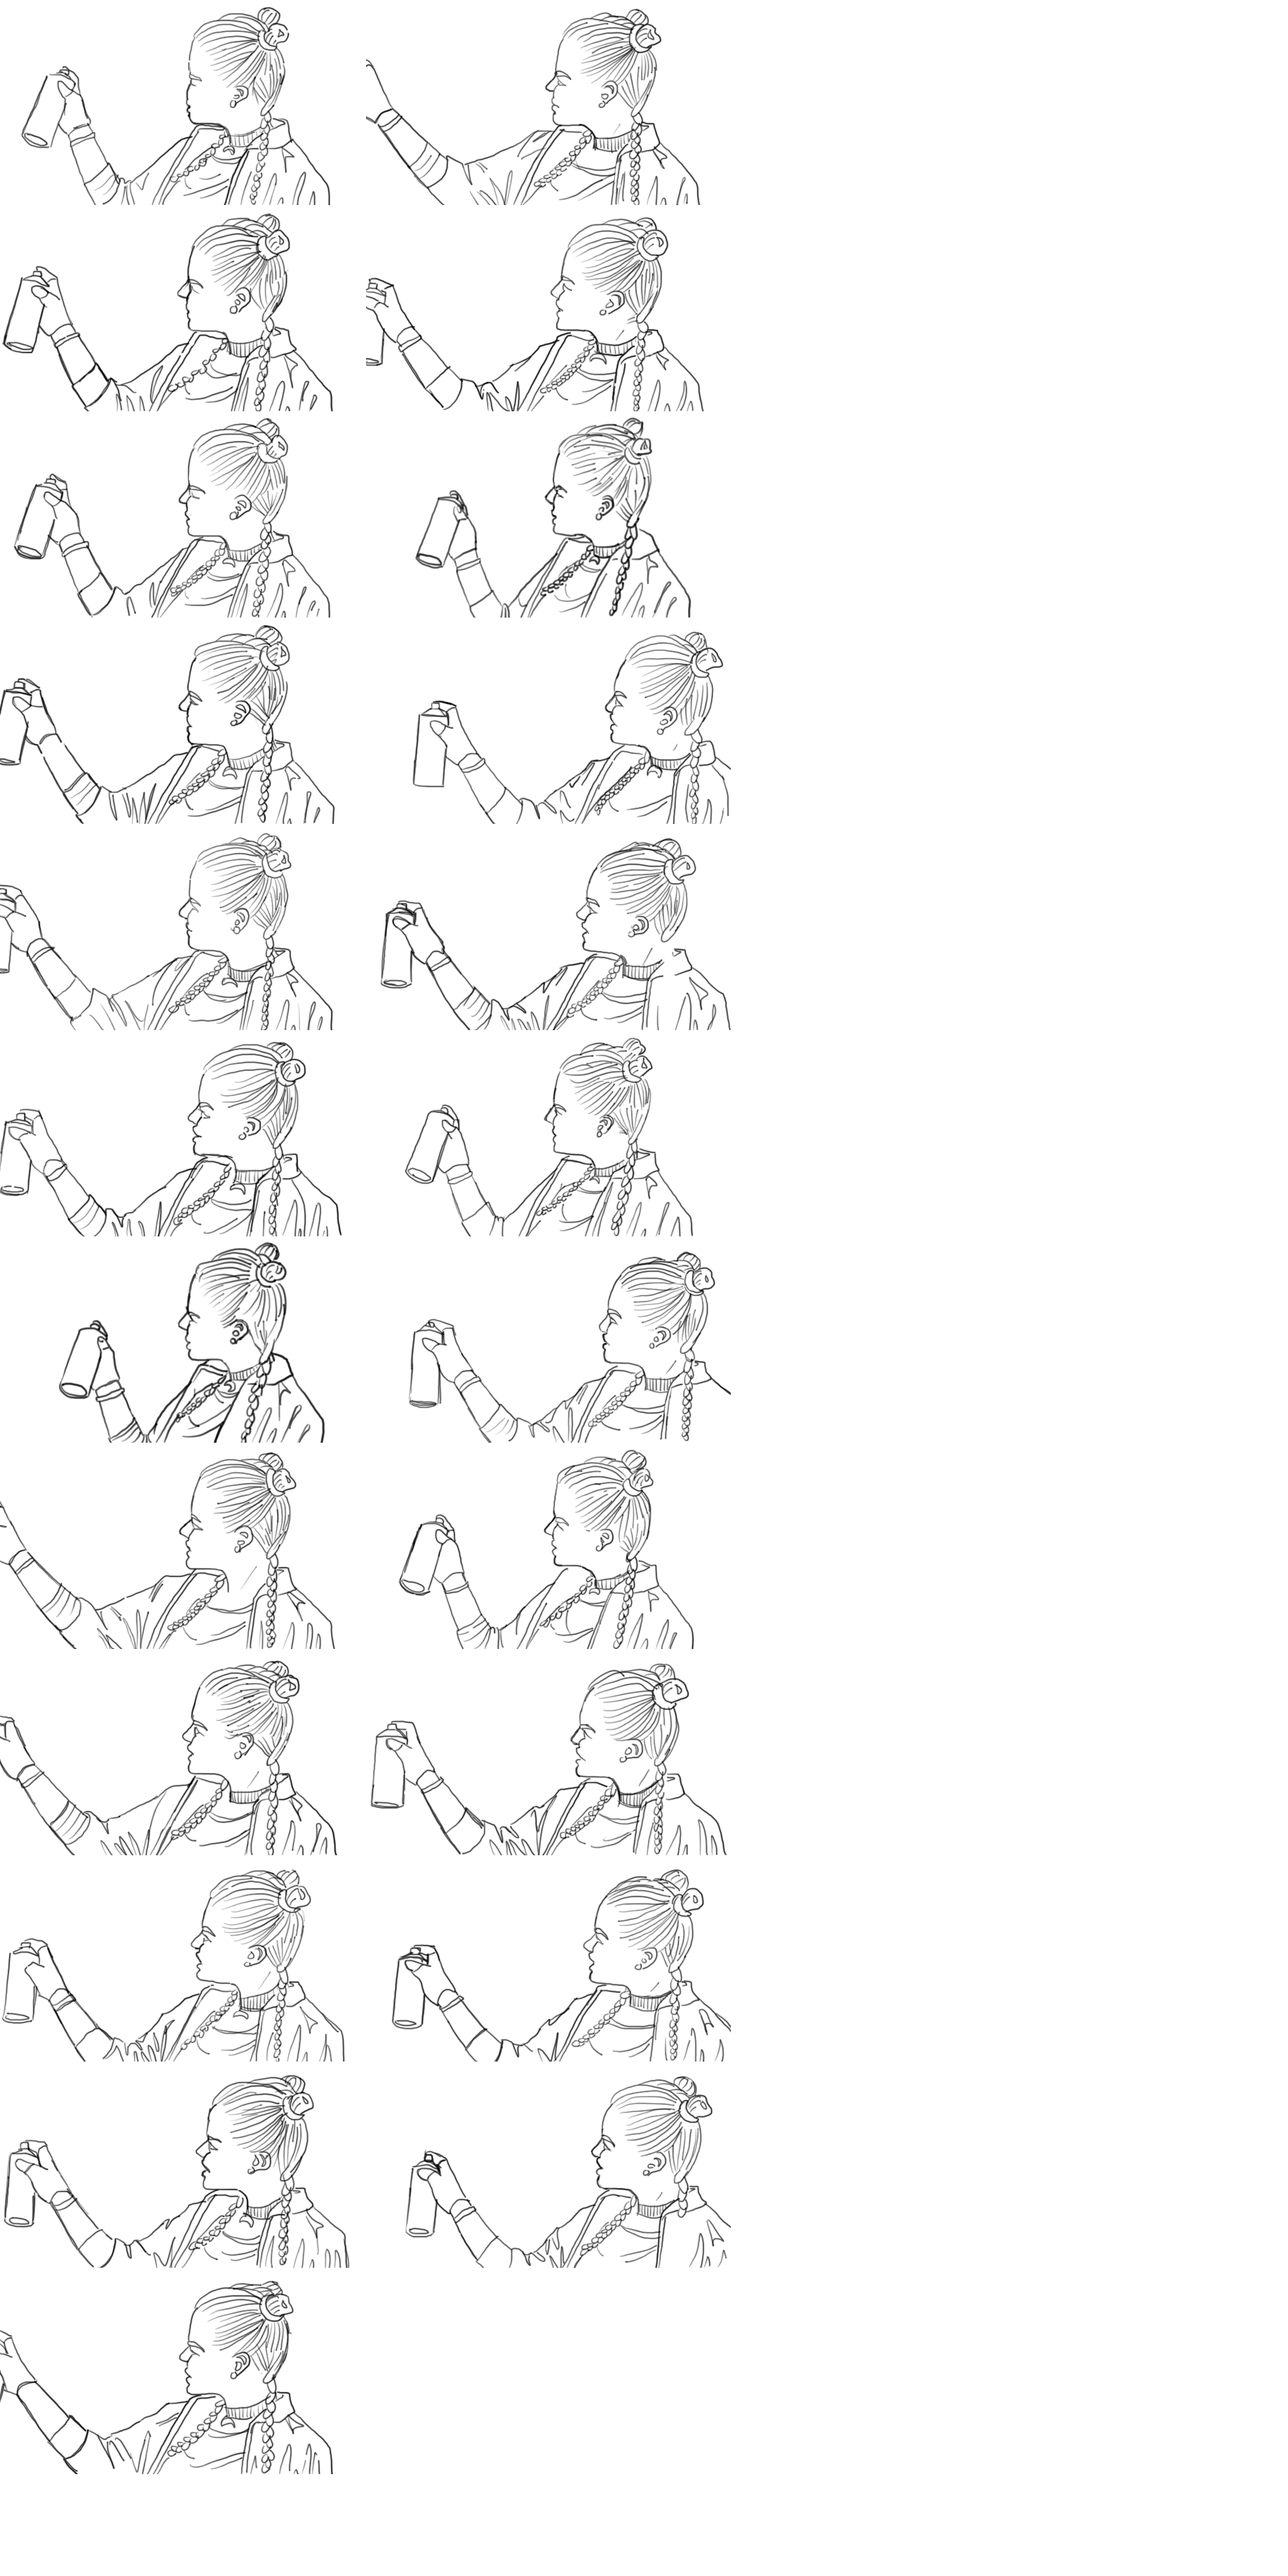
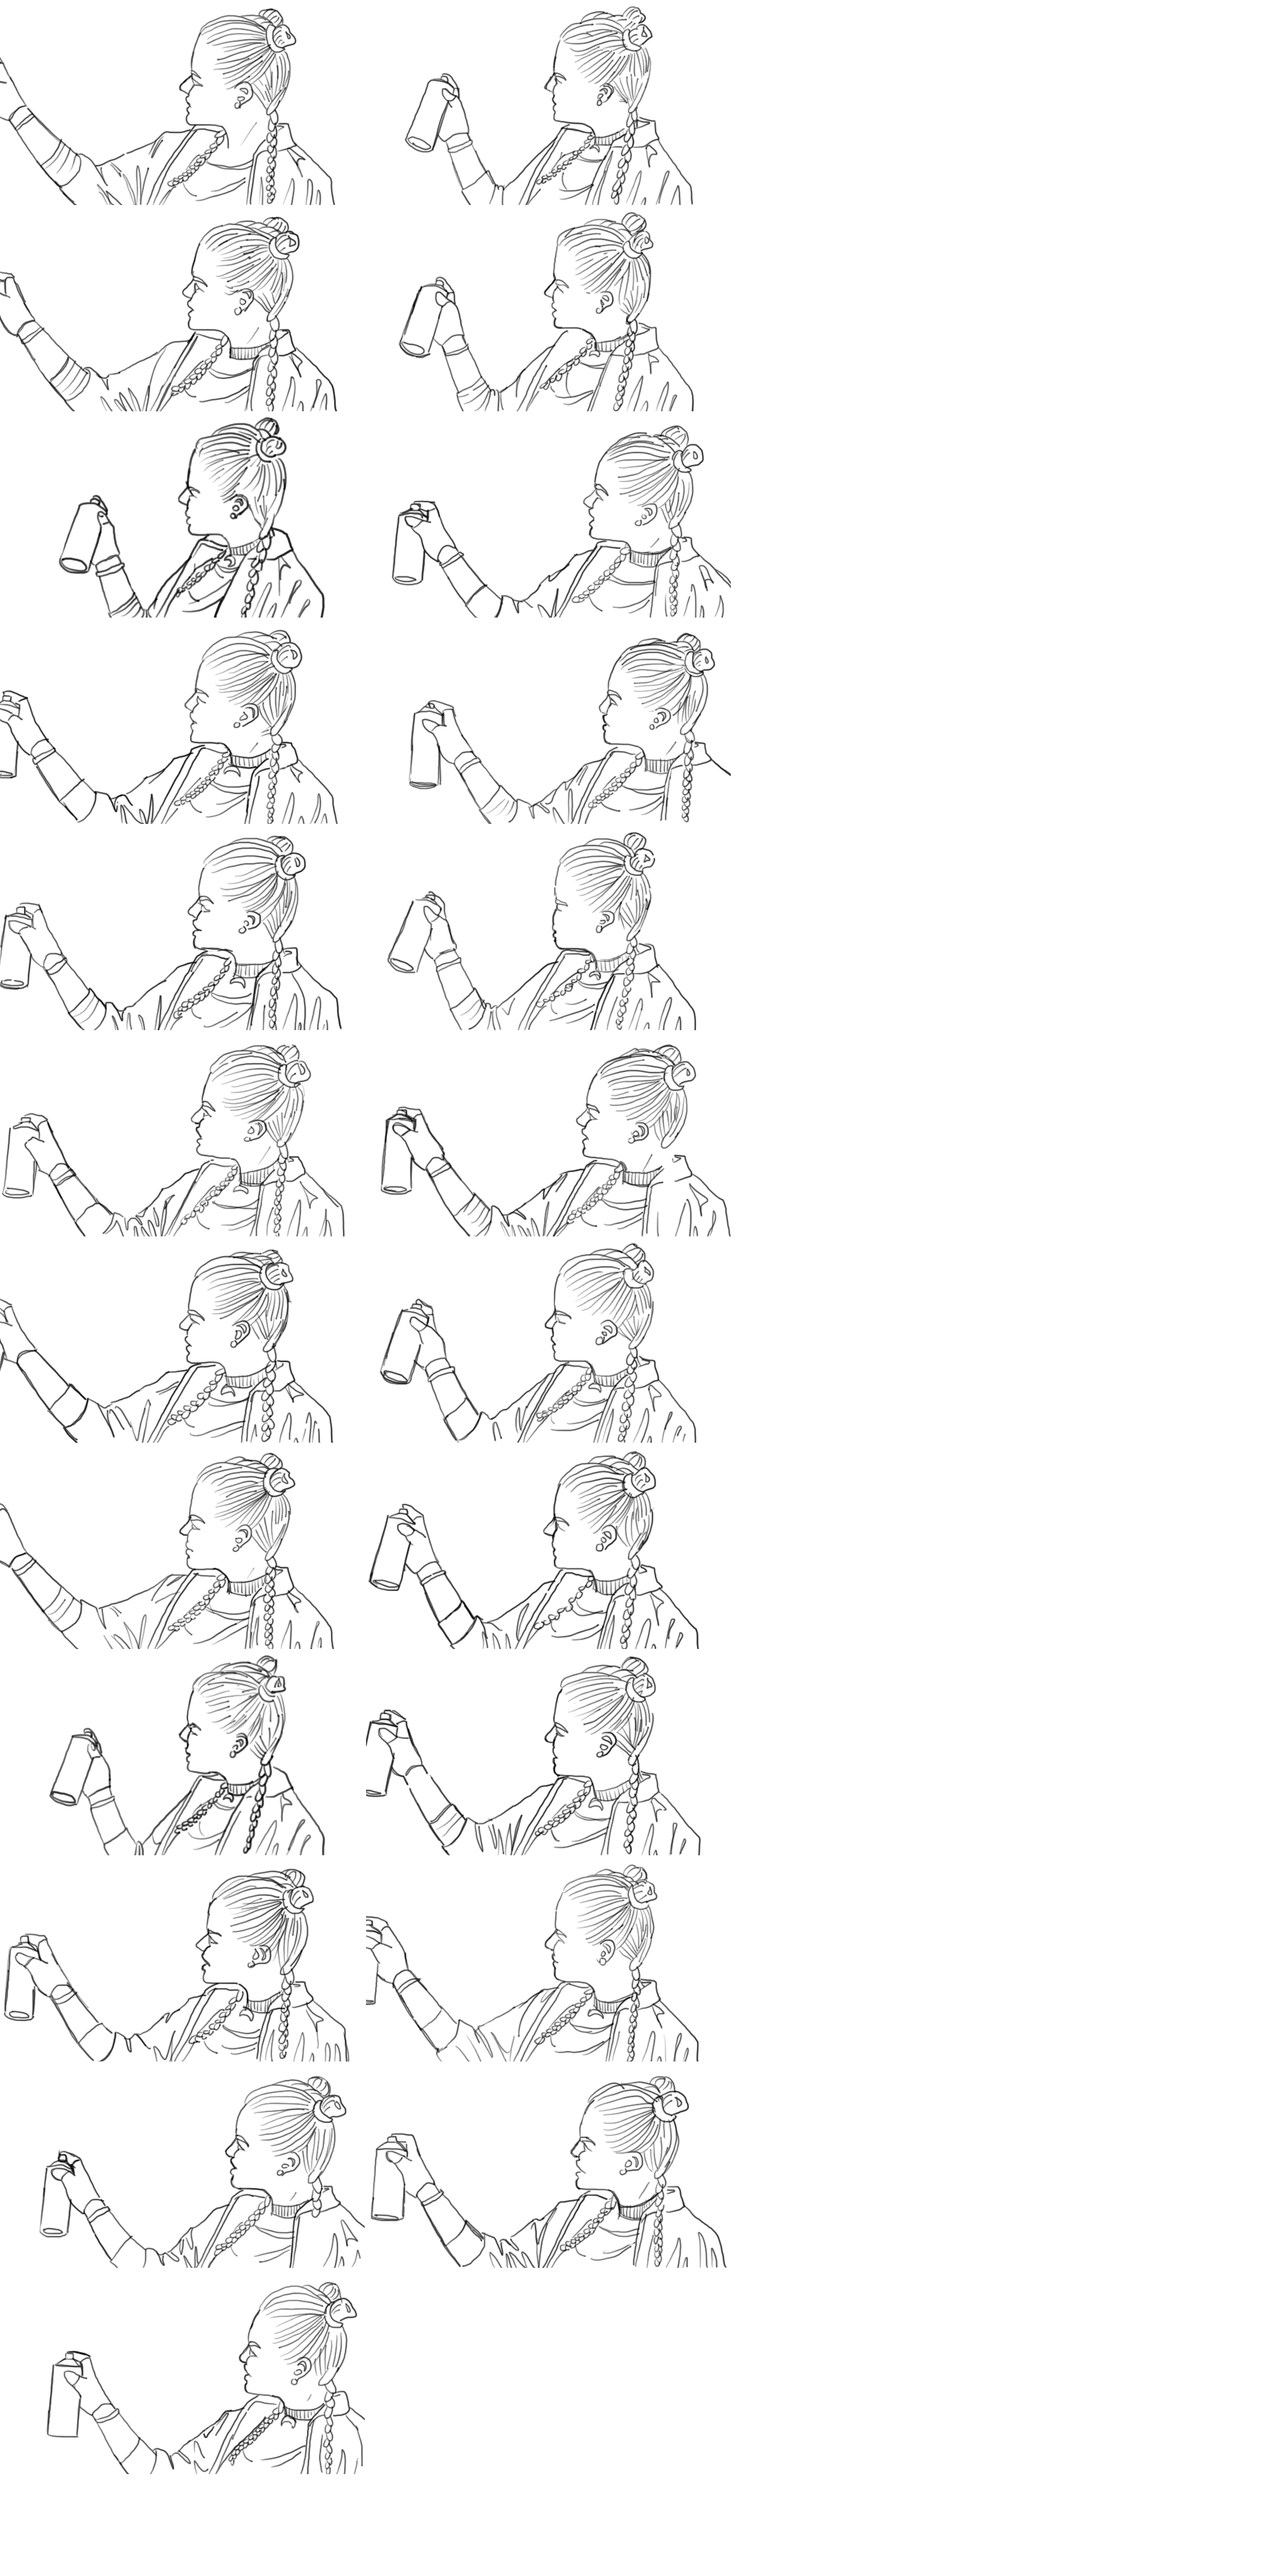
animation update

diff --git a/Animations/moon animation.js b/Animations/moon animation.js
@@ -7,7 +7,7 @@ var loadedGoogleCount = 0;
 var gFontsUpdateCacheList = [];
 var tFontsUpdateCacheList = [];
 lib.ssMetadata = [
-		{name:"moon animation_atlas_", frames: [[0,1968,580,326],[0,3608,580,326],[582,0,580,326],[0,2296,580,326],[0,2624,580,326],[582,328,580,326],[0,1640,580,326],[0,2952,580,326],[0,3280,580,326],[582,2624,580,326],[582,1312,580,326],[582,656,580,326],[582,2952,580,326],[582,3280,580,326],[582,1968,580,326],[582,984,580,326],[582,1640,580,326],[582,2296,580,326],[0,0,580,326],[0,656,580,326],[0,328,580,326],[0,984,580,326],[0,1312,580,326]]}
+		{name:"moon animation_atlas_", frames: [[0,656,580,326],[0,1968,580,326],[0,2296,580,326],[0,0,580,326],[0,328,580,326],[0,984,580,326],[0,1312,580,326],[0,1640,580,326],[0,2952,580,326],[582,3280,580,326],[582,1640,580,326],[0,2624,580,326],[582,656,580,326],[0,3280,580,326],[582,984,580,326],[0,3608,580,326],[582,0,580,326],[582,328,580,326],[582,1312,580,326],[582,1968,580,326],[582,2296,580,326],[582,2624,580,326],[582,2952,580,326]]}
 ];
 
 
@@ -349,7 +349,7 @@ lib.tfontAvailable = function(family, totalTypekitCount) {
 	this.timeline.addTween(cjs.Tween.get(this.instance_19).wait(38).to({_off:false},0).to({_off:true},2).wait(10).to({_off:false,x:204},0).to({_off:true},2).wait(10).to({_off:false,x:358},0).to({_off:true},2).wait(10).to({_off:false,x:514},0).to({_off:true},2).wait(10).to({_off:false,x:667},0).to({_off:true},2).wait(6));
 	this.timeline.addTween(cjs.Tween.get(this.instance_20).wait(40).to({_off:false},0).to({_off:true},2).wait(10).to({_off:false,x:172},0).to({_off:true},2).wait(10).to({_off:false,x:304},0).to({_off:true},2).wait(10).to({_off:false,x:468},0).to({_off:true},2).wait(10).to({_off:false,x:636},0).to({_off:true},2).wait(4));
 	this.timeline.addTween(cjs.Tween.get(this.instance_21).wait(42).to({_off:false},0).to({_off:true},2).wait(10).to({_off:false,x:196},0).to({_off:true},2).wait(10).to({_off:false,x:308},0).to({_off:true},2).wait(10).to({_off:false,x:480},0).to({_off:true},2).wait(10).to({_off:false,x:660},0).to({_off:true},2).wait(2));
-	this.timeline.addTween(cjs.Tween.get(this.instance_22).wait(44).to({_off:false},0).to({_off:true},2).wait(10).to({_off:false,x:158},0).to({_off:true},2).wait(10).to({_off:false,x:296},0).to({_off:true},2).wait(10).to({_off:false,x:472},0).to({_off:true},2).wait(10).to({_off:false},0).wait(2));
+	this.timeline.addTween(cjs.Tween.get(this.instance_22).wait(44).to({_off:false},0).to({_off:true},2).wait(10).to({_off:false,x:158},0).to({_off:true},2).wait(10).to({_off:false,x:296},0).to({_off:true},2).wait(10).to({_off:false,x:472},0).to({_off:true},2).wait(10).to({_off:false,x:640},0).wait(2));
 
 }).prototype = p = new cjs.MovieClip();
 p.nominalBounds = new cjs.Rectangle(960,541,1920,1079.2);

diff --git a/Animations/moon animation.html b/Animations/moon animation.html
@@ -13,17 +13,17 @@
 <meta name="authoring-tool" content="Adobe_Animate_CC">
 <title>moon animation</title>
 <!-- write your code here -->
-    
-    <style>
-        body{
-            background-color: antiquewhite;
-        }
-        
-        #animation_container {
-            display:
-        }
-    
-    </style>
+<style>
+  body {
+	overflow:hidden;
+  }
+  #animation_container {
+	position:absolute;
+	margin:auto;
+	left:-100%;right:-100%;
+	top:-100%;bottom:-100%;
+  }
+</style>
 <script src="https://code.createjs.com/createjs-2015.11.26.min.js"></script>
 <script src="moon animation.js"></script>
 <script>
@@ -90,7 +90,7 @@ function handleComplete(evt) {
 			lastW = iw; lastH = ih; lastS = sRatio;		
 		}
 	}
-	makeResponsive(false,'both',false,1);	
+	makeResponsive(true,'both',true,2);	
 	fnStartAnimation();
 }
 </script>
